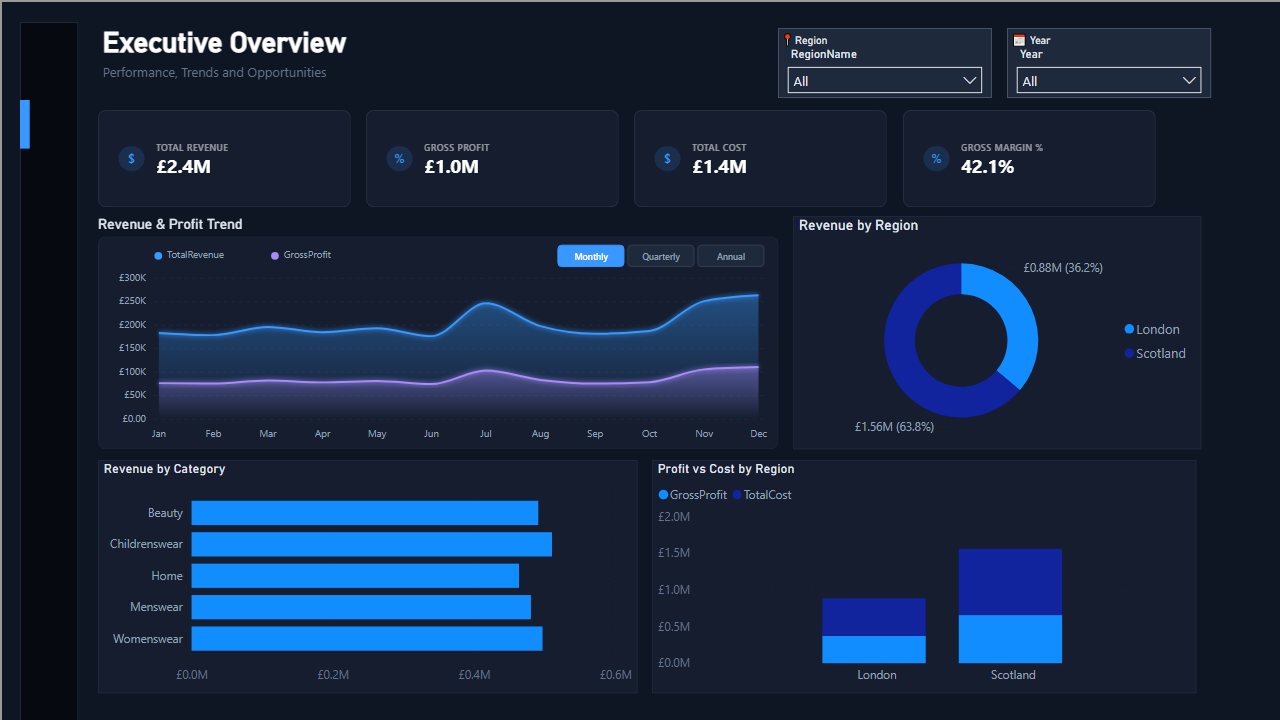
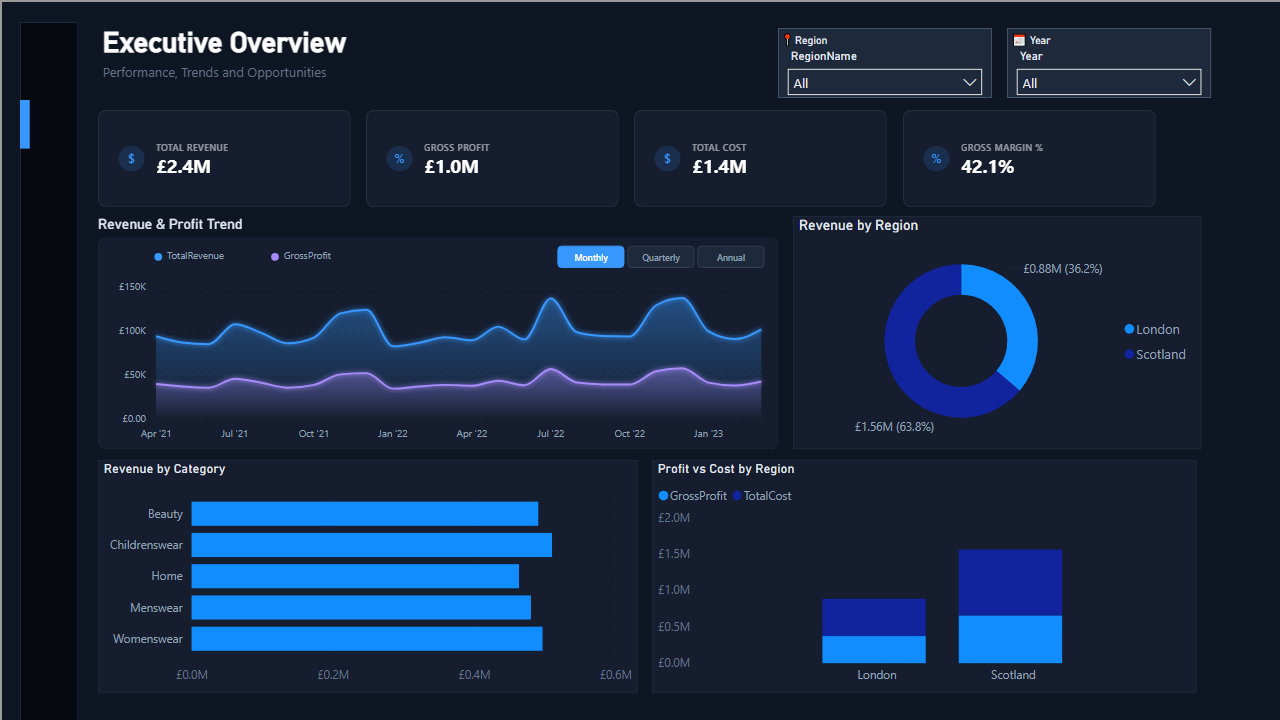
fix(07e): year-aware aggregation, hierarchical Year+Month category, thinned x-axis labels

diff --git a/custom-visuals/premiumAreaChart/src/visual.ts b/custom-visuals/premiumAreaChart/src/visual.ts
@@ -18,6 +18,13 @@ import VisualUpdateOptions = powerbi.extensibility.visual.VisualUpdateOptions;
 import IVisual = powerbi.extensibility.visual.IVisual;
 import IVisualEventService = powerbi.extensibility.IVisualEventService;
 
+interface DataPoint {
+    year: number;
+    month: number;
+    quarter: number;
+    values: number[];
+}
+
 interface SeriesData {
     name: string;
     color: string;
@@ -44,6 +51,8 @@ export class Visual implements IVisual {
     private legendGroup: d3.Selection<SVGGElement, unknown, null, undefined>;
     private toggleGroup: d3.Selection<SVGGElement, unknown, null, undefined>;
 
+    private rawData: DataPoint[] = [];
+    private seriesNames: string[] = [];
     private currentGranularity: Granularity = "Monthly";
     private lastOptions: VisualUpdateOptions | null = null;
 
@@ -90,28 +99,46 @@ export class Visual implements IVisual {
             }
 
             const categorical = dv.categorical;
-            const categories = categorical.categories[0].values.map(v => String(v));
-            const rawSeries: SeriesData[] = [];
 
-            const numSeries = Math.min(categorical.values.length, 3);
-            for (let i = 0; i < numSeries; i++) {
-                const valueColumn = categorical.values[i];
-                const seriesValues = valueColumn.values.map((v, idx) => ({
-                    category: categories[idx],
-                    value: Number(v) || 0
-                }));
-                rawSeries.push({
-                    name: valueColumn.source.displayName || `Series ${i + 1}`,
-                    color: SERIES_COLORS[i],
-                    values: seriesValues
-                });
+            // Parse categories - may be hierarchical (Year + Month) or single (Month)
+            let years: number[] = [];
+            let months: number[] = [];
+            const numRows = categorical.categories[0].values.length;
+
+            if (categorical.categories.length >= 2) {
+                // Hierarchical: first is Year, second is Month
+                years = categorical.categories[0].values.map(v => Number(v));
+                months = categorical.categories[1].values.map(v => Number(v));
+            } else {
+                // Single category - assume months, no year info
+                months = categorical.categories[0].values.map(v => Number(v));
+                years = months.map(() => 0); // unknown year
             }
 
-            // Aggregate based on current granularity
-            const aggregatedSeries = this.aggregateData(rawSeries, this.currentGranularity);
-            const aggregatedCategories = aggregatedSeries.length > 0
-                ? aggregatedSeries[0].values.map(v => v.category)
-                : [];
+            // Parse values
+            const numSeries = Math.min(categorical.values.length, 3);
+            this.seriesNames = [];
+            this.rawData = [];
+
+            for (let i = 0; i < numSeries; i++) {
+                this.seriesNames.push(categorical.values[i].source.displayName || `Series ${i + 1}`);
+            }
+
+            for (let row = 0; row < numRows; row++) {
+                const dp: DataPoint = {
+                    year: years[row],
+                    month: months[row],
+                    quarter: Math.ceil(months[row] / 3),
+                    values: [],
+                };
+                for (let i = 0; i < numSeries; i++) {
+                    dp.values.push(Number(categorical.values[i].values[row]) || 0);
+                }
+                this.rawData.push(dp);
+            }
+
+            // Sort by year then month
+            this.rawData.sort((a, b) => a.year !== b.year ? a.year - b.year : a.month - b.month);
 
             // Detect currency
             const currency = this.detectCurrency(categorical.values[0]?.source?.format);
@@ -119,57 +146,68 @@ export class Visual implements IVisual {
             // Render toggle buttons
             this.renderToggle(width);
 
-            // Render chart
-            this.render(width, height, aggregatedCategories, aggregatedSeries, currency);
+            // Aggregate and render
+            this.renderAggregated(width, height, currency);
             this.events.renderingFinished(options);
         } catch (error) {
             this.events.renderingFailed(options, String(error));
         }
     }
 
-    private aggregateData(rawSeries: SeriesData[], granularity: Granularity): SeriesData[] {
-        if (granularity === "Monthly") {
-            return rawSeries; // No aggregation needed
-        }
+    private renderAggregated(width: number, height: number, currency: string): void {
+        // Aggregate based on granularity
+        const grouped = new Map<string, number[]>();
+        const sortKeys: string[] = [];
 
-        return rawSeries.map(series => {
-            const grouped = new Map<string, number>();
+        this.rawData.forEach(dp => {
+            let key: string;
+            let sortKey: string;
 
-            series.values.forEach(point => {
-                const monthNum = parseInt(point.category, 10);
-                let key: string;
-
-                if (granularity === "Quarterly") {
-                    if (!isNaN(monthNum) && monthNum >= 1 && monthNum <= 12) {
-                        const quarter = Math.ceil(monthNum / 3);
-                        key = `Q${quarter}`;
-                    } else {
-                        key = point.category;
-                    }
+            if (this.currentGranularity === "Monthly") {
+                // Show each month with year context
+                const monthAbbr = this.MONTH_ABBR[(dp.month - 1)] || String(dp.month);
+                if (dp.year > 0) {
+                    const yearShort = String(dp.year).slice(-2);
+                    key = `${monthAbbr} '${yearShort}`;
+                    sortKey = `${dp.year}-${String(dp.month).padStart(2, "0")}`;
                 } else {
-                    // Annual — sum everything into one point
-                    key = "Total";
+                    key = monthAbbr;
+                    sortKey = String(dp.month).padStart(2, "0");
                 }
-
-                grouped.set(key, (grouped.get(key) || 0) + point.value);
-            });
-
-            const values: { category: string; value: number }[] = [];
-            grouped.forEach((value, category) => {
-                values.push({ category, value });
-            });
-
-            // Sort quarters
-            if (granularity === "Quarterly") {
-                values.sort((a, b) => {
-                    const qa = parseInt(a.category.replace("Q", ""), 10);
-                    const qb = parseInt(b.category.replace("Q", ""), 10);
-                    return qa - qb;
-                });
+            } else if (this.currentGranularity === "Quarterly") {
+                if (dp.year > 0) {
+                    key = `Q${dp.quarter} '${String(dp.year).slice(-2)}`;
+                    sortKey = `${dp.year}-Q${dp.quarter}`;
+                } else {
+                    key = `Q${dp.quarter}`;
+                    sortKey = `Q${dp.quarter}`;
+                }
+            } else {
+                // Annual
+                key = dp.year > 0 ? String(dp.year) : "Total";
+                sortKey = String(dp.year);
             }
 
-            return { name: series.name, color: series.color, values };
+            if (!grouped.has(key)) {
+                grouped.set(key, new Array(this.seriesNames.length).fill(0));
+                sortKeys.push(sortKey + "|" + key);
+            }
+            const vals = grouped.get(key)!;
+            dp.values.forEach((v, i) => { vals[i] += v; });
         });
+
+        // Sort by sortKey
+        sortKeys.sort();
+        const categories: string[] = sortKeys.map(sk => sk.split("|")[1]);
+
+        // Build series data
+        const seriesData: SeriesData[] = this.seriesNames.map((name, i) => ({
+            name,
+            color: SERIES_COLORS[i],
+            values: categories.map(cat => ({ category: cat, value: grouped.get(cat)![i] })),
+        }));
+
+        this.render(width, height, categories, seriesData, currency);
     }
 
     private renderToggle(width: number): void {
@@ -193,7 +231,13 @@ export class Visual implements IVisual {
                 .on("click", () => {
                     this.currentGranularity = label;
                     if (this.lastOptions) {
-                        this.update(this.lastOptions);
+                        const w = this.lastOptions.viewport.width;
+                        const h = this.lastOptions.viewport.height;
+                        const currency = this.detectCurrency(
+                            this.lastOptions.dataViews?.[0]?.categorical?.values?.[0]?.source?.format
+                        );
+                        this.renderToggle(w);
+                        this.renderAggregated(w, h, currency);
                     }
                 });
 
@@ -236,14 +280,6 @@ export class Visual implements IVisual {
         "Jan", "Feb", "Mar", "Apr", "May", "Jun",
         "Jul", "Aug", "Sep", "Oct", "Nov", "Dec"
     ];
-
-    private formatCategory(value: string): string {
-        const num = parseInt(value, 10);
-        if (!isNaN(num) && num >= 1 && num <= 12 && this.currentGranularity === "Monthly") {
-            return this.MONTH_ABBR[num - 1];
-        }
-        return value;
-    }
 
     private formatYValue(value: number, currency: string): string {
         const abs = Math.abs(value);
@@ -357,6 +393,10 @@ export class Visual implements IVisual {
         });
 
         // X-axis labels
+        // X-axis labels (thin if too many)
+        const maxLabels = Math.floor(chartWidth / 60);
+        const labelStep = Math.max(1, Math.ceil(categories.length / maxLabels));
+
         this.chartGroup.append("g")
             .attr("transform", `translate(0,${chartHeight})`)
             .selectAll(".x-label")
@@ -368,7 +408,7 @@ export class Visual implements IVisual {
             .attr("fill", AXIS_COLOR)
             .attr("font-size", "10px")
             .attr("font-family", "'Segoe UI', sans-serif")
-            .text(d => this.formatCategory(d));
+            .text((d, i) => i % labelStep === 0 ? d : "");
 
         // Y-axis labels
         this.chartGroup.append("g")
@@ -452,7 +492,7 @@ export class Visual implements IVisual {
                 tooltipBg.attr("x", tipX).attr("y", tipY).attr("width", boxWidth).attr("height", boxHeight);
                 tooltipGroup.selectAll("text").remove();
 
-                const catLabel = self.formatCategory(nearestCat);
+                const catLabel = nearestCat;
                 tooltipGroup.append("text")
                     .attr("x", tipX + 8).attr("y", tipY + 14)
                     .attr("fill", "#e2e8f0").attr("font-size", "9px")

diff --git a/scripts/_deploy_exec_v1.py b/scripts/_deploy_exec_v1.py
@@ -366,10 +366,16 @@ hero_vis = vis_container("hero_line", kpi_start_x, hero_y, hero_width, hero_heig
 hero_vis["visual"] = {
     "visualType": AREA_GUID,
     "query": {"queryState": {
-        "category": {"projections": [{
-            "field": {"Column": {"Expression": {"SourceRef": {"Entity": "Date"}}, "Property": "Month"}},
-            "queryRef": "Date.Month", "nativeQueryRef": "Month",
-        }]},
+        "category": {"projections": [
+            {
+                "field": {"Column": {"Expression": {"SourceRef": {"Entity": "Date"}}, "Property": "Year"}},
+                "queryRef": "Date.Year", "nativeQueryRef": "Year",
+            },
+            {
+                "field": {"Column": {"Expression": {"SourceRef": {"Entity": "Date"}}, "Property": "Month"}},
+                "queryRef": "Date.Month", "nativeQueryRef": "Month",
+            },
+        ]},
         "values": {"projections": [
             {
                 "field": {"Measure": {"Expression": {"SourceRef": {"Entity": "Sales"}}, "Property": "TotalRevenue"}},
